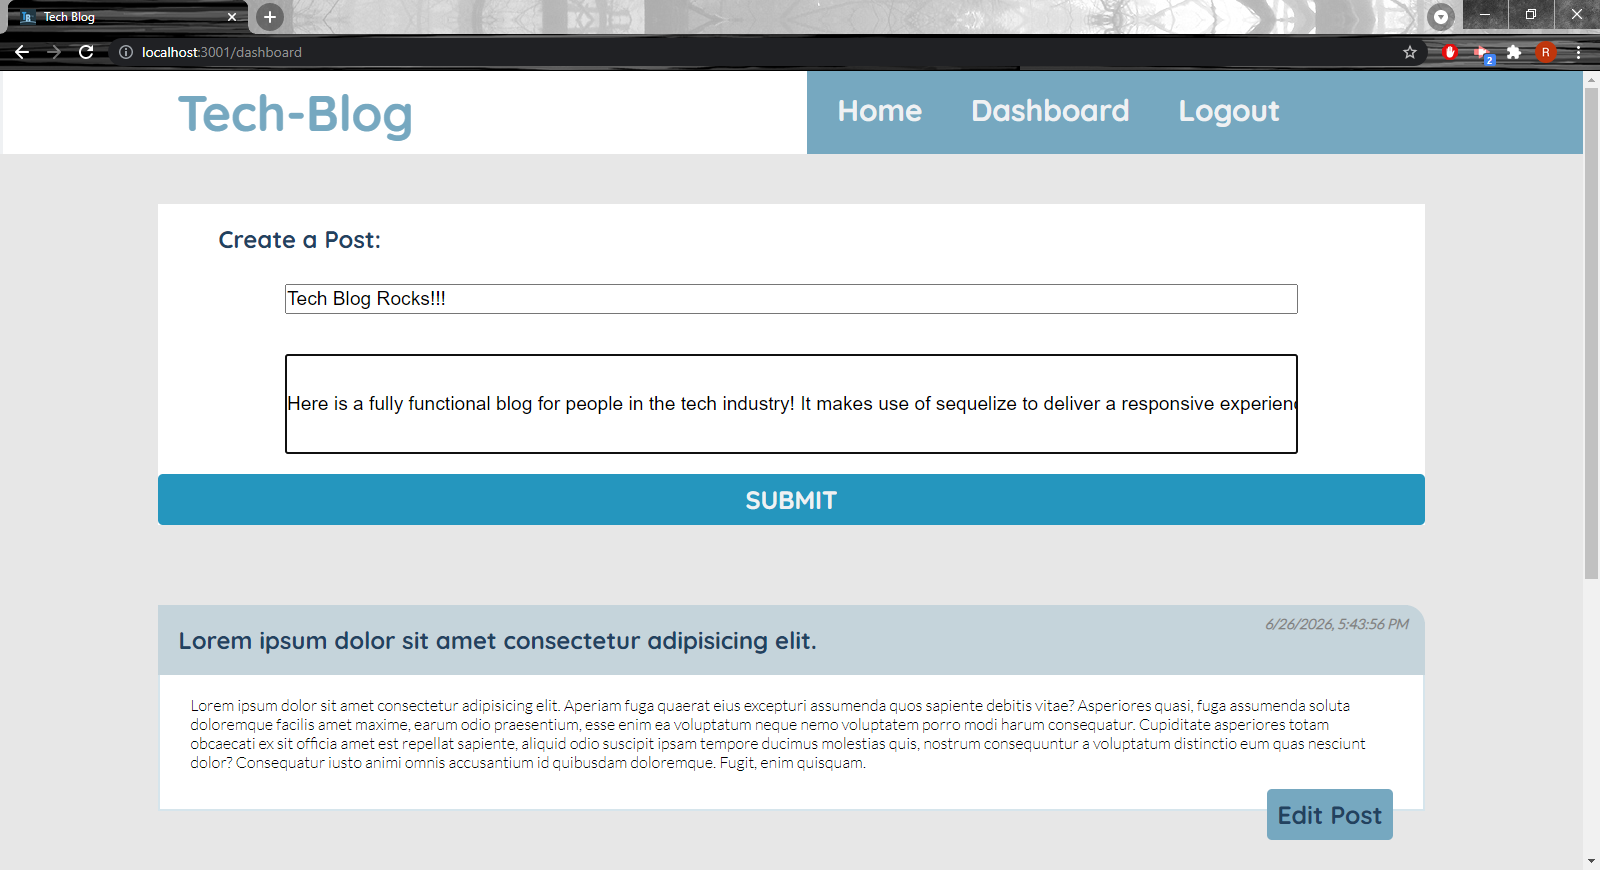
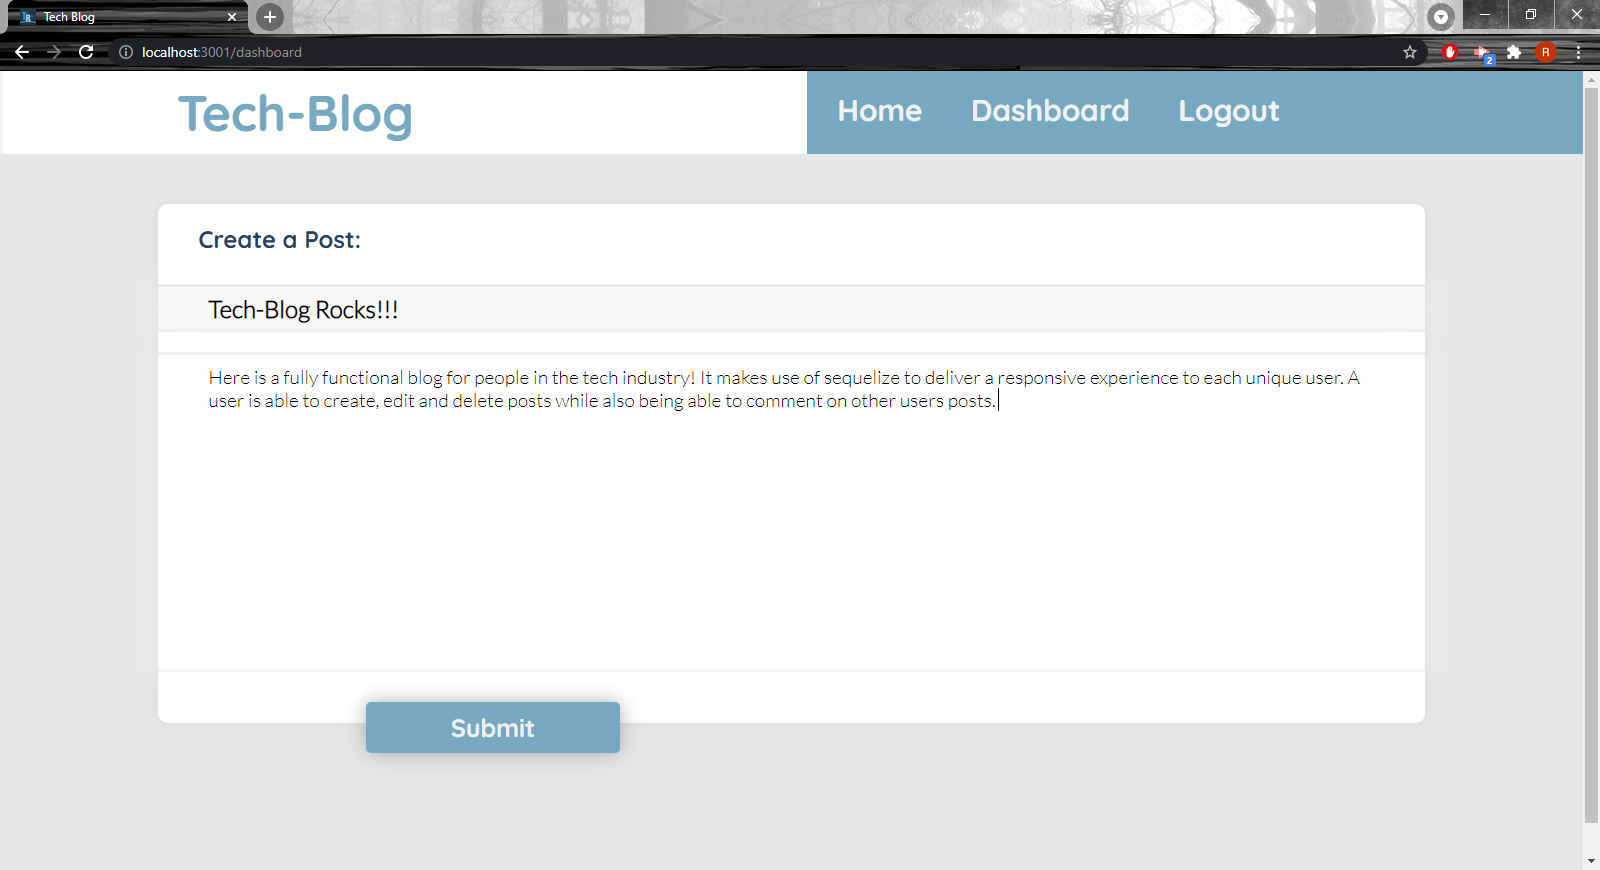
still trying to fix heroku not logging in

diff --git a/public/css/style.css b/public/css/style.css
@@ -187,8 +187,9 @@ i {
   margin-top: 20px;
   justify-content: center;
   width: 100%;
-  background-color: rgb(245, 245, 245,.3);
+  background-color: rgba(233, 233, 233, 0.3);
   box-shadow: 0px 0px 30px rgba(255, 255, 255, 0.5);
+  padding-right: 30px;
 }
 .content {
   height: 20rem;
@@ -198,7 +199,6 @@ i {
   outline: none;
   transition: ease-in 2s;
   background-color: white;
-  padding-left: 30px;
   border-top: 3px solid rgb(233, 233, 233, .7);
   border-bottom: 3px solid rgb(240, 240, 240, .7);
 }
@@ -220,10 +220,11 @@ i {
   background-color: var(--secondary);
   width: 20%;
   bottom: -30px;
-  left: 15rem;
+  left: 13rem;
   border: none;
   border-radius: 5px;
-  box-shadow: 0px 0px 20px rgb(138, 138, 138,.7) ;
+  box-shadow: 0px 0px 20px rgb(138, 138, 138,.7);
+  min-width: 150px;
 }
 .edit {
   padding: 10px;
